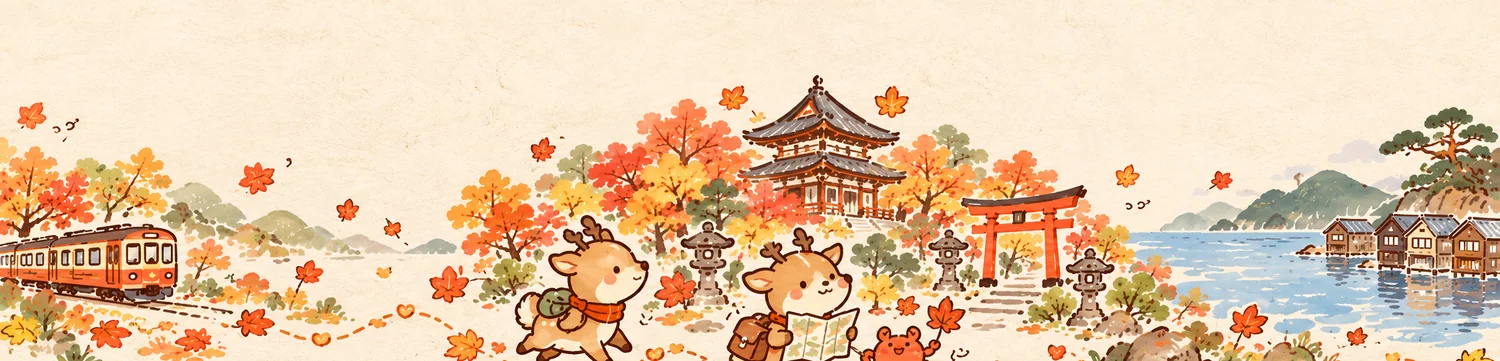
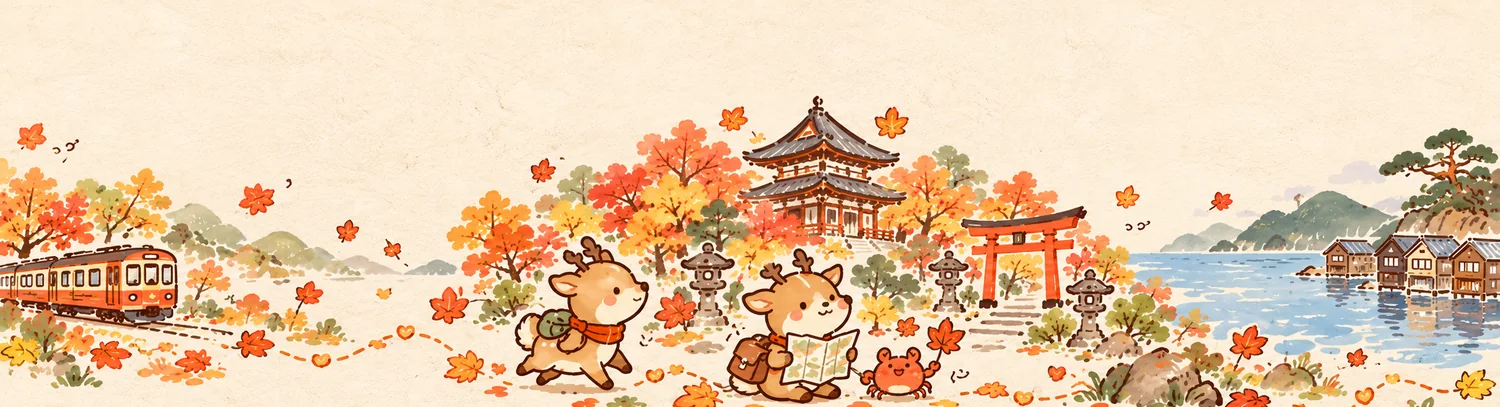
12th upload

diff --git a/index.html b/index.html
@@ -20,8 +20,8 @@
 <meta property="og:type" content="website">
 <link rel="preconnect" href="https://fonts.googleapis.com">
 <link href="https://fonts.googleapis.com/css2?family=Zen+Maru+Gothic:wght@400;500;700;900&family=Zen+Kaku+Gothic+New:wght@400;500;700&display=swap" rel="stylesheet">
-<link rel="stylesheet" href="style.css?v=66">
-<link rel="stylesheet" href="splash.css?v=66">
+<link rel="stylesheet" href="style.css?v=67">
+<link rel="stylesheet" href="splash.css?v=67">
 </head>
 <body class="family-locked">
 
@@ -80,7 +80,7 @@
       <div class="dates">2026.11.27 出發 – 12.06 抵台・10天9夜</div>
     </div>
     <div class="header-scene">
-      <img class="header-art" src="images/header.webp" alt="" width="1500" height="361" decoding="async">
+      <img class="header-art" src="images/header.webp" alt="" width="1500" height="407" decoding="async">
     </div>
     <span id="spotCount" hidden>--</span>
   </div>
@@ -310,7 +310,7 @@
 
 <input type="file" id="restoreFile" accept="application/json,.json" style="display:none" onchange="restoreBackupFile(event)">
 
-<script src="app.js?v=66"></script>
+<script src="app.js?v=67"></script>
 
 
 <div id="kyotoSplash" class="splash" hidden aria-label="京丹雅行載入中">
@@ -326,6 +326,6 @@
     <div class="splash__title"><strong>京丹雅行</strong><span>京都・奈良・京丹後</span></div>
   </div>
 </div>
-<script src="splash.js?v=66"></script>
+<script src="splash.js?v=67"></script>
 </body>
 </html>

diff --git a/app.js b/app.js
@@ -2511,7 +2511,7 @@ window.addEventListener('offline', updateNetStatus);
 /* ============ Service Worker（離線快取整個網頁） ============ */
 if (navigator.serviceWorker) {
   window.addEventListener('load', () => {
-    navigator.serviceWorker.register('./sw.js?v=66').then(()=>navigator.serviceWorker.ready).catch(()=>{});
+    navigator.serviceWorker.register('./sw.js?v=67').then(()=>navigator.serviceWorker.ready).catch(()=>{});
   });
 }
 document.addEventListener('error',e=>{if(e.target?.tagName==='IMG')imageErrorFallback(e.target);},true);
@@ -3118,7 +3118,7 @@ const TENKI_LINKS={
 /* =====================================================================
    v48：收藏／預約狀態／提醒、自駕即時路況、版本與同步比對
    ===================================================================== */
-const APP_VERSION='v66-2026-09-28';
+const APP_VERSION='v67-2026-09-28';
 
 /* ---------- 收藏 ★／預約狀態／提醒 ---------- */
 let marksStore=(()=>{try{const v=JSON.parse(localStorage.getItem('kyoto_marks'));return v&&typeof v==='object'&&!Array.isArray(v)?v:{};}catch(e){return {};}})();

diff --git a/style.css b/style.css
@@ -1785,7 +1785,7 @@ h3 .h-art{float:right;width:58px;height:auto;margin:-10px 0 -14px 8px;}
 
 /* F) 標頭插畫：不要被上方裁切遮住，留白多一點再讓圖出現 */
 .header-scene{margin:6px 0 0!important;}   /* 不再讓圖片超出內距邊界，避免部分手機（字體/顯示縮放不同）把左右兩側切掉 */
-.header-art{-webkit-mask-image:none!important;mask-image:none!important;border-radius:14px;}
+.header-art{-webkit-mask-image:none!important;mask-image:none!important;border-radius:26px!important;box-shadow:0 6px 18px -6px rgba(120,70,20,.32);}
 
 /* B) 今日天氣與穿搭卡：加一點顏色，不要純白單調 */
 .day-panel{background:linear-gradient(160deg,#fff8ec,#fdeed2)!important;border-color:#f0d9a8!important;}

diff --git a/sw.js b/sw.js
@@ -1,5 +1,5 @@
 /* 京都・奈良・丹後行程：App Shell、圖片與已瀏覽內容離線快取 */
-const CACHE_VERSION='kyoto-trip-v66-splashanim';
+const CACHE_VERSION='kyoto-trip-v67-header';
 const SHELL_CACHE=`kyoto-shell-${CACHE_VERSION}`;
 const RUNTIME_CACHE=`kyoto-runtime-${CACHE_VERSION}`;
 /* 圖片快取獨立於版本：更新網站不會清掉已下載的圖片，也不必重新下載 */

diff --git a/README.md b/README.md
@@ -1,5 +1,15 @@
 # 京都・奈良・丹後 10 日慢旅網站
 
+## v67
+
+1. 標頭插畫的圓角從幾乎看不出來的 20px 加大到 26px，四個角落變成清楚、像一張卡片的圓角，不再像裁切失誤。
+2. 標頭插畫改用稍微拉高一點的裁切（寬度不變，高度增加約 13%），整個標頭看起來更有份量、不會太扁。
+
+## v67
+
+1. 標頭插圖圓角放大（14px→20px）並加上淡淡的陰影，讓它看起來是張特意裱框的照片，不再像四角生硬地切在背景上。
+2. 標頭插圖改用更高的裁切範圍，螃蟹與腳邊的落葉完整露出，整體高度增加約 60px。
+
 ## v66（開場動畫）
 
 1. 安裝成 App 後開啟時的畫面，從「純底色＋大圖示」改成你提供的動畫版本：小鹿拖行李、看地圖、睡醒伸懶腰，三款隨機播放，約 2 秒。
